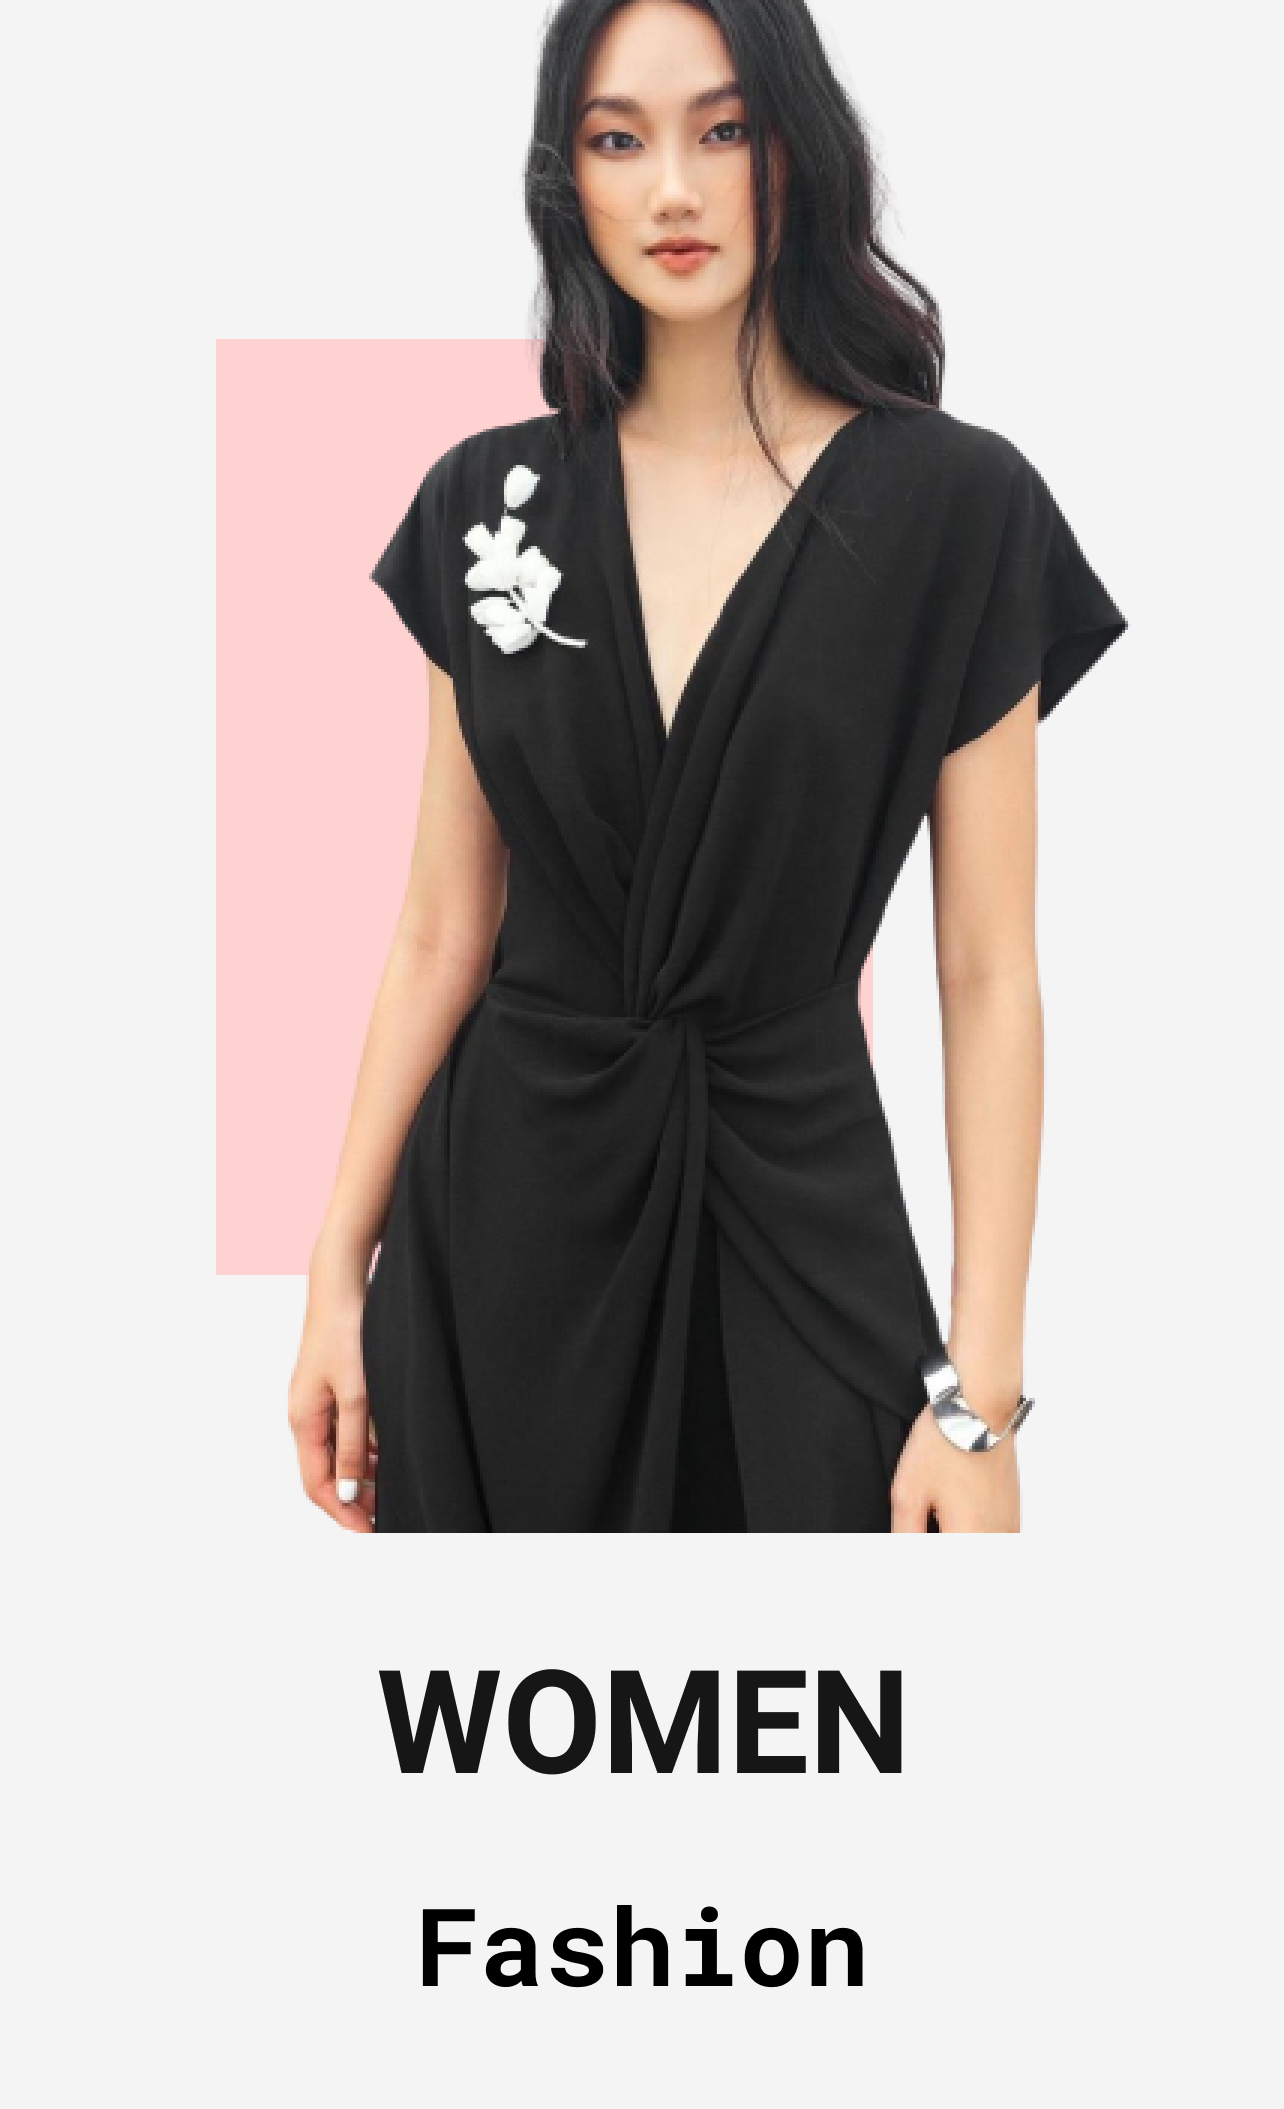
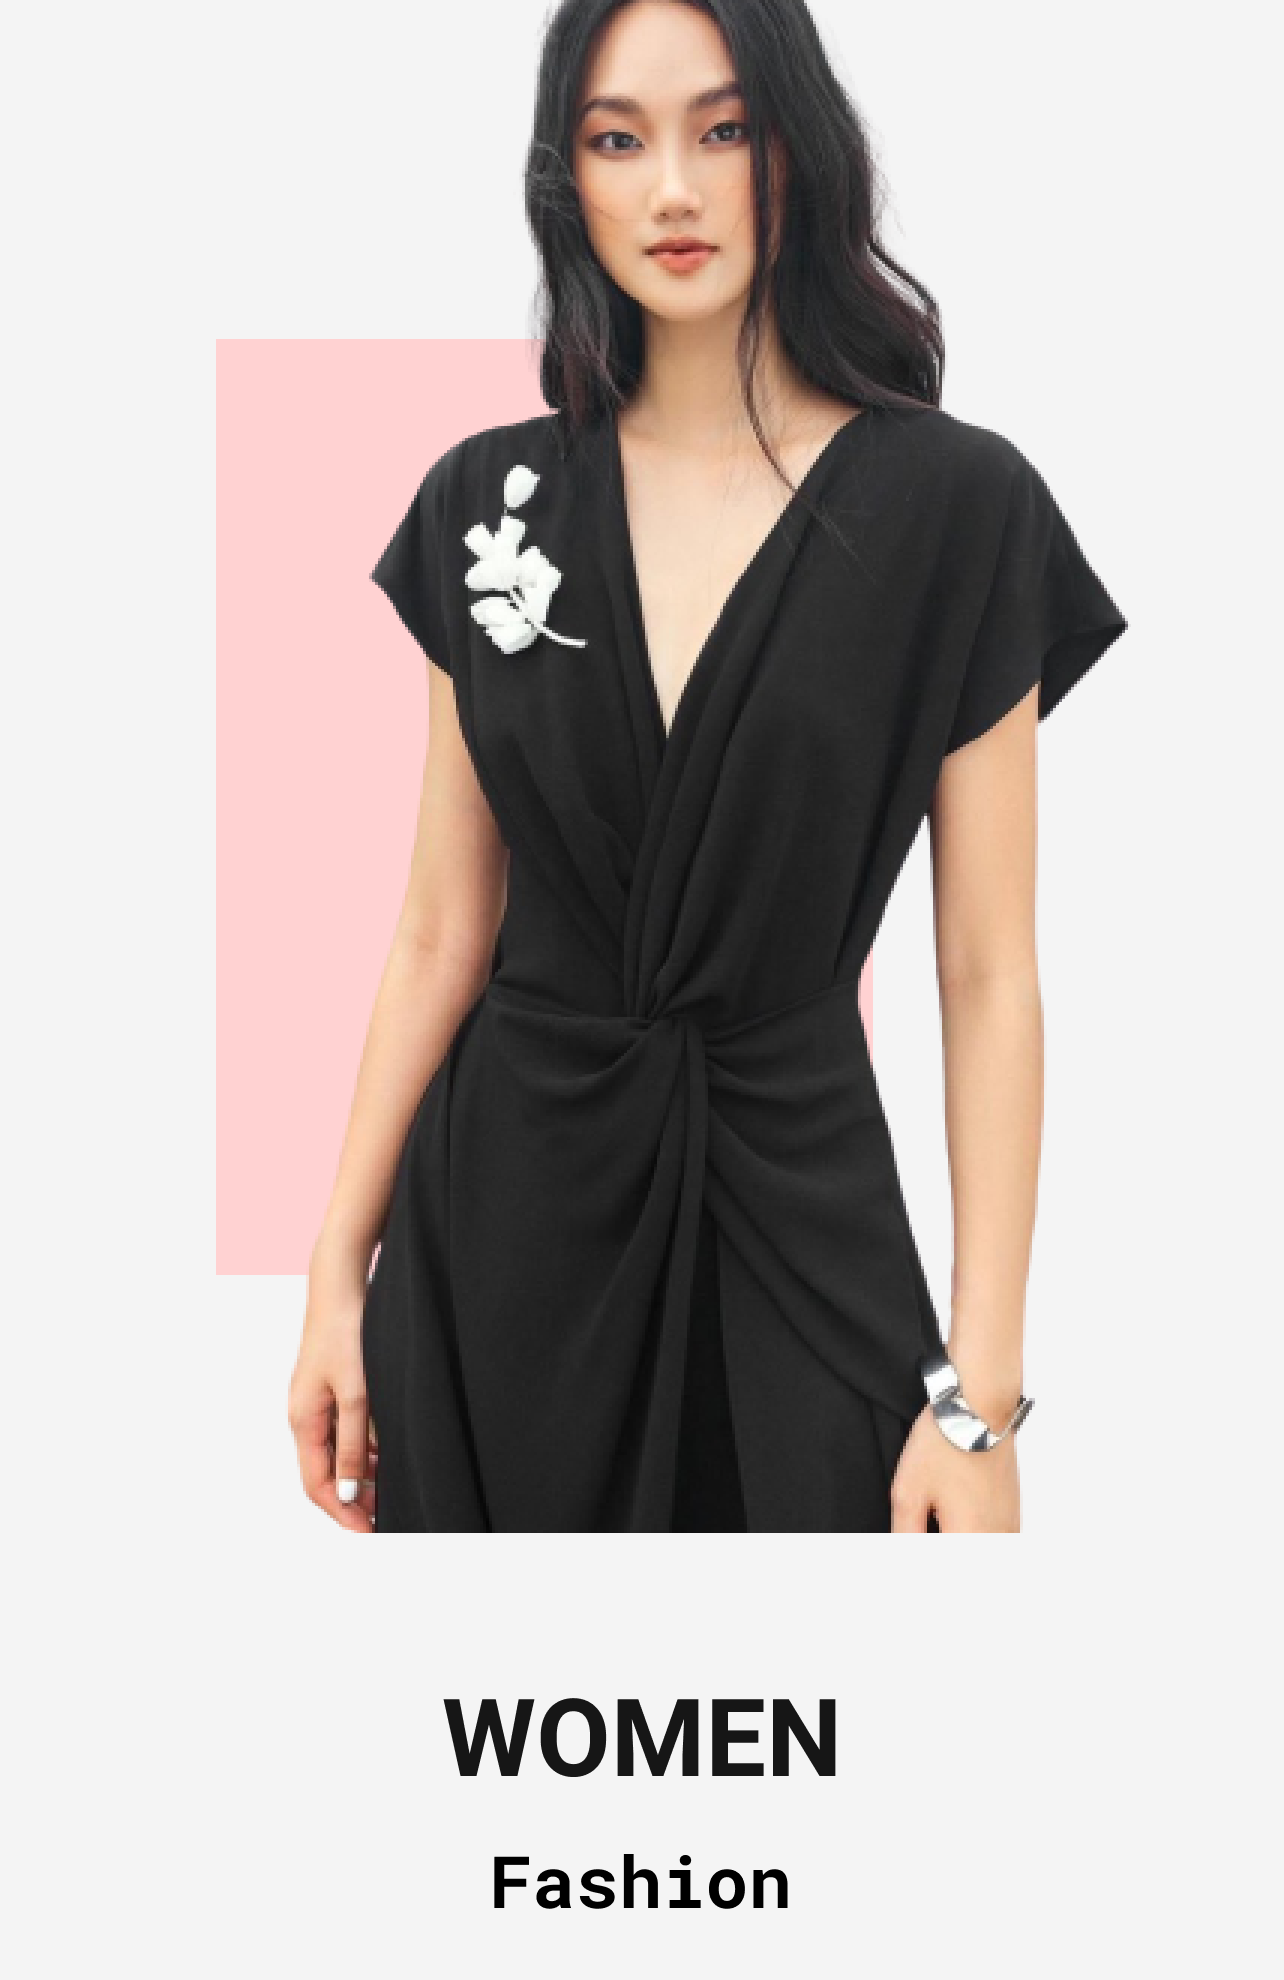
Update products for men

Changed region(s): [[0.1558, 0.0308, 0.8723, 0.9859], [0.7788, 0.4621, 0.81, 0.4929]]

diff --git a/pages/products/men.vue b/pages/products/men.vue
@@ -3,11 +3,65 @@
     <div class="tu-section clearspacer">
       <div class="tu-section-content">
         <div class="tu-content">
-          <TuImage v-if="!isMobile" :src="require(`~/assets/images/products/banners/banner_2.jpg`)" />
-          <TuImage v-else :src="require(`~/assets/images/products/banners/banner_2_mb.png`)" />
+          <TuImage
+            :src="require(`~/assets/images/products/banners/banner_men_3.png`)"
+          />
+        </div>
+        <h3 class="tu-section-title text-blue">Polo</h3>
+        <div class="tu-content">
+          <el-row type="flex" justify="center">
+            <el-col :xs="24" :sm="24" :md="20" :lg="16">
+              <el-row type="flex" :gutter="isMobile ? 10 : 32">
+                <el-col :span="12">
+                  <TuImage
+                    :src="require(`~/assets/images/products/men/polo_1.1.jpeg`)"
+                  />
+                </el-col>
+                <el-col :span="12">
+                  <TuImage
+                    :src="require(`~/assets/images/products/men/polo_1.2.jpeg`)"
+                  />
+                </el-col>
+              </el-row>
+            </el-col>
+          </el-row>
+        </div>
+        <div class="tu-section-title text-blue text-center" style="margin-bottom: 0">Suit</div>
+        <div class="tu-content">
+          <el-row type="flex" justify="center">
+            <el-col :xs="24" :sm="24" :md="20" :lg="16">
+              <p class="text-center">
+                Chất liệu vải nhập khẩu cao cấp không bai xù, nhăn co, màu sắc
+                đa dạng, độ bóng đẹp sắc nét. Áo vest được thiết kế cho các buổi
+                tiệc quan trọng, đi làm công sở hay đi chơi.
+              </p>
+              <TuImage
+                :src="require(`~/assets/images/products/men/vest_1.png`)"
+              />
+              <!-- <el-row type="flex" :gutter="isMobile ? 10 : 32">
+                <el-col :span="12">
+                  <TuImage :src="require(`~/assets/images/products/men/vest_1.png`)" />
+                </el-col>
+                <el-col :span="12">
+                  <TuImage :src="require(`~/assets/images/products/men/polo_1.2.jpeg`)" />
+                </el-col>
+              </el-row> -->
+            </el-col>
+          </el-row>
         </div>
         <div class="tu-content">
-          <TuImage :src="require(`~/assets/images/products/banners/banner_men.png`)" />
+          <TuImage
+            v-if="!isMobile"
+            :src="
+              require(`~/assets/images/products/banners/banner_men_shirts.png`)
+            "
+          />
+          <TuImage
+            v-else
+            :src="
+              require(`~/assets/images/products/banners/banner_men_shirts_mb.png`)
+            "
+          />
         </div>
       </div>
     </div>
@@ -39,3 +93,11 @@ export default {
   },
 }
 </script>
+
+<style lang="scss" scoped>
+.img-mx {
+  img {
+    margin: 0 0.5rem;
+  }
+}
+</style>

diff --git a/pages/products/index.vue b/pages/products/index.vue
@@ -7,7 +7,7 @@
           <TuImage v-else :src="require(`~/assets/images/products/banners/banner_2_mb.png`)" />
         </div>
         <div class="tu-content">
-          <TuImage v-if="!isMobile" :src="require(`~/assets/images/products/banners/banner_men_3.png`)" />
+          <TuImage v-if="!isMobile" :src="require(`~/assets/images/products/banners/banner_men_2.png`)" />
           <TuImage v-else :src="require(`~/assets/images/products/banners/banner_men_2_mb.png`)" />
           <div class="tu-content-link">
             <router-link to="/products/men">View more</router-link>

diff --git a/components/common/Image.vue b/components/common/Image.vue
@@ -1,6 +1,6 @@
 <template>
   <div class="tu-img">
-    <img v-if="intersected" :src="srcImage" :style="imgStyles" alt="" />
+    <img v-if="intersected" :src="srcImage" :style="imgStyles" :class="imgClass" alt="" />
     <div v-else class="loading" />
   </div>
 </template>
@@ -20,6 +20,10 @@ export default {
     delay: {
       type: Number,
       default: 0,
+    },
+    imgClass: {
+      type: String,
+      default: '',
     },
     fit: {
       type: String,

diff --git a/assets/css/global.scss b/assets/css/global.scss
@@ -86,9 +86,14 @@ a {
   text-align: left;
 }
 .text-white {
-  color: #fff;
+  color: #fff !important;
 }
-
+.text-black {
+  color: #222 !important;
+}
+.text-blue {
+  color: $blue !important;
+}
 .tu-section {
   padding-top: 2rem;
   padding-bottom: 2rem;
